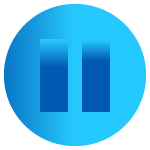
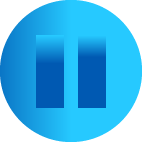
UI elements updated.

diff --git a/MediaPlayer/src/sample/Controller.java b/MediaPlayer/src/sample/Controller.java
@@ -3,12 +3,14 @@ package sample;
 
 import javafx.beans.InvalidationListener;
 import javafx.beans.Observable;
+import javafx.beans.binding.Bindings;
 import javafx.beans.property.SimpleObjectProperty;
 import javafx.beans.value.ChangeListener;
 import javafx.beans.value.ObservableValue;
 import javafx.collections.MapChangeListener;
 import javafx.event.EventHandler;
 import javafx.fxml.FXML;
+import javafx.geometry.Bounds;
 import javafx.scene.Group;
 import javafx.scene.control.*;
 import javafx.scene.image.Image;
@@ -19,12 +21,14 @@ import javafx.scene.layout.Pane;
 import javafx.scene.media.Media;
 import javafx.scene.media.MediaPlayer;
 import javafx.scene.media.MediaView;
+import javafx.scene.shape.Circle;
 import javafx.stage.FileChooser;
 import javafx.stage.Stage;
 import javafx.util.Duration;
 
 import java.io.File;
 import java.net.URISyntaxException;
+import java.text.NumberFormat;
 import java.util.ArrayList;
 import java.util.List;
 
@@ -49,6 +53,8 @@ public class Controller implements PlayList {
     Label nowPlaying;
     @FXML
     Label duration;
+    @FXML
+    Label volumeNumber;
 
 
 
@@ -58,12 +64,22 @@ public class Controller implements PlayList {
     @FXML
     private void initialize() {
         System.out.println("start");
+
+        MediaPlayButton.setPrefSize(71,71);
+
+        Bounds buttonBounds = MediaPlayButton.getBoundsInParent();
+        System.out.println(buttonBounds.getMaxX());
         playAndPause = new ImageView(this.play);
+        playAndPause.setFitWidth(71.0);
+        playAndPause.setFitHeight(71.0);
+        Circle c = new Circle(MediaPlayButton.getPrefWidth()/2,MediaPlayButton.getPrefHeight()/2,playAndPause.getFitWidth()/2);
+        MediaPlayButton.setClip(c);
         MediaPlayButton.setGraphic(this.playAndPause);
+        //MediaPlayButton
         MediaPlayButton.disableProperty().bind(mediaPlayer.isNull());
 
-        playAndPause.setFitWidth(75.0D);
-        playAndPause.setFitHeight(75.0D);
+
+
 
     }
 
@@ -103,16 +119,26 @@ public class Controller implements PlayList {
 
 
         for(File f : list){
-            playList.add(f.toURI().toString());
-            Music music = new Music(f.toURI().toString(),mediaPlayer);
+            if(playList.contains(f.toURI().toString())){
 
-            playListOfMusic.add(music);
-            music.passReferences(time,volumeAdjuster,playAndPause,nowPlaying,duration);
-            addContextMenuToMusic(music);
-            listOfMedia.getChildren().add(music);
+            }
+            else{
+                playList.add(f.toURI().toString());
+                Music music = new Music(f.toURI().toString(),mediaPlayer);
+                playListOfMusic.add(music);
+                music.passReferences(time,volumeAdjuster,playAndPause,nowPlaying,duration,volumeNumber);
+                addContextMenuToMusic(music);
+                listOfMedia.getChildren().add(music);
+            }
+
         }
         if(mediaPlayer.isNotNull().getValue())
             mediaPlayer.get().dispose();
+
+        NumberFormat formatter = NumberFormat.getIntegerInstance();
+        formatter.setMinimumIntegerDigits(2);
+
+
 
         //bindMediaPlayer();
 

diff --git a/MediaPlayer/src/sample/Music.java b/MediaPlayer/src/sample/Music.java
@@ -14,6 +14,7 @@ import javafx.scene.media.Media;
 import javafx.scene.media.MediaPlayer;
 import javafx.util.Duration;
 
+import java.text.DecimalFormat;
 import java.util.Map;
 
 public class Music extends Pane implements PlayList{
@@ -29,7 +30,7 @@ public class Music extends Pane implements PlayList{
     Label length;
     private Slider time,volumeAdjuster;
     private ImageView playAndPause;
-    private Label nowPlayed,duration;
+    private Label nowPlayed,duration,volume;
     private SimpleStringProperty durationProperty = new SimpleStringProperty("");
 
     public Label getMediaTitle() {
@@ -98,12 +99,13 @@ public class Music extends Pane implements PlayList{
         mediaPlayer.set(new MediaPlayer(music));
         //length.setText(music.getDuration().toString());
     }
-    public void passReferences(Slider time, Slider volumeAdjuster, ImageView playAndPause, Label nowPlayed,Label duration){
+    public void passReferences(Slider time, Slider volumeAdjuster, ImageView playAndPause, Label nowPlayed,Label duration,Label volume){
         this.nowPlayed=nowPlayed;
         this.time = time;
         this.volumeAdjuster = volumeAdjuster;
         this.playAndPause = playAndPause;
         this.duration=duration;
+        this.volume=volume;
         bindControlls(this);
     }
     private void loadUI(){
@@ -140,9 +142,11 @@ public class Music extends Pane implements PlayList{
     }
 
     private void bindControlls(Music m){
+        DecimalFormat formatter = new DecimalFormat("00");
         volumeAdjuster.setValue(mediaPlayer.get().getVolume()*100);
         volumeAdjuster.valueProperty().addListener(observable -> {
             mediaPlayer.get().setVolume(volumeAdjuster.getValue()/100);
+            volume.setText((int)volumeAdjuster.getValue()+"%");
         });
 
         mediaPlayer.get().statusProperty().addListener((observable, oldValue, newValue) -> {
@@ -151,7 +155,7 @@ public class Music extends Pane implements PlayList{
 
                     int min = (int) (mediaPlayer.get().getMedia().getDuration().toSeconds()/60);
                     int sec = (int) (mediaPlayer.get().getMedia().getDuration().toSeconds()%60);
-                    m.length.setText(min+":"+sec);
+                    m.length.setText(formatter.format(min)+":"+formatter.format(sec));
 
 
             }
@@ -171,7 +175,7 @@ public class Music extends Pane implements PlayList{
             int currentmin = (int) newValue.toSeconds()/60;
             int currentsec = (int) newValue.toSeconds()%60;
             //length.setText(min+":"+sec);
-            m.durationProperty.set(currentmin+":"+currentsec +" / "+m.length.getText());
+            m.durationProperty.set(formatter.format(currentmin)+":"+formatter.format(currentsec) +" / "+m.length.getText());
             duration.textProperty().bind(m.durationProperty);
         });
         time.setOnMousePressed(event -> {
@@ -180,5 +184,6 @@ public class Music extends Pane implements PlayList{
         time.setOnMouseDragged(event -> {
             mediaPlayer.get().seek(Duration.seconds(time.getValue()));
         });
+
     }
 }
